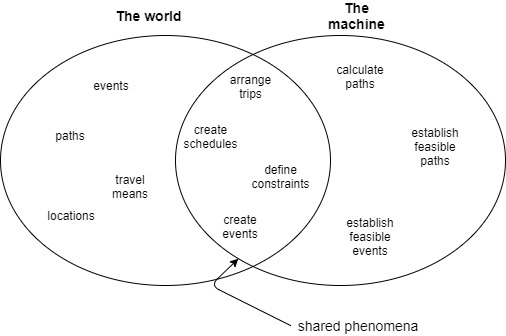
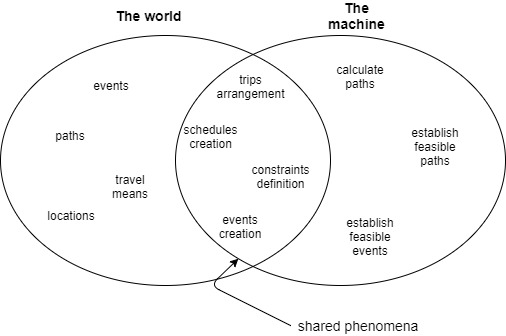
Statechart diagram and correction on shared phenomena

diff --git a/RASD/RASD.tex b/RASD/RASD.tex
@@ -80,6 +80,7 @@
 		\label{sect:Product perspective}
 			\input{./2-Overalldescription/product_perspective.tex}
 			\input{./2-Overalldescription/classDiagram.tex}
+			\input{./2-Overalldescription/statechart_diagram.tex}
 		\section{Product functions}
 		\label{sect:Product functions}
 			\todo{TODO}

diff --git a/RASD/2-OverallDescription/statechart_diagram.tex b/RASD/2-OverallDescription/statechart_diagram.tex
@@ -1,0 +1,5 @@
+\subsection{Statechart Diagram}
+\begin{figure} [h]
+\centering
+\includegraphics[scale=0.6]{statechart_diagram.jpg}
+\end{figure}
